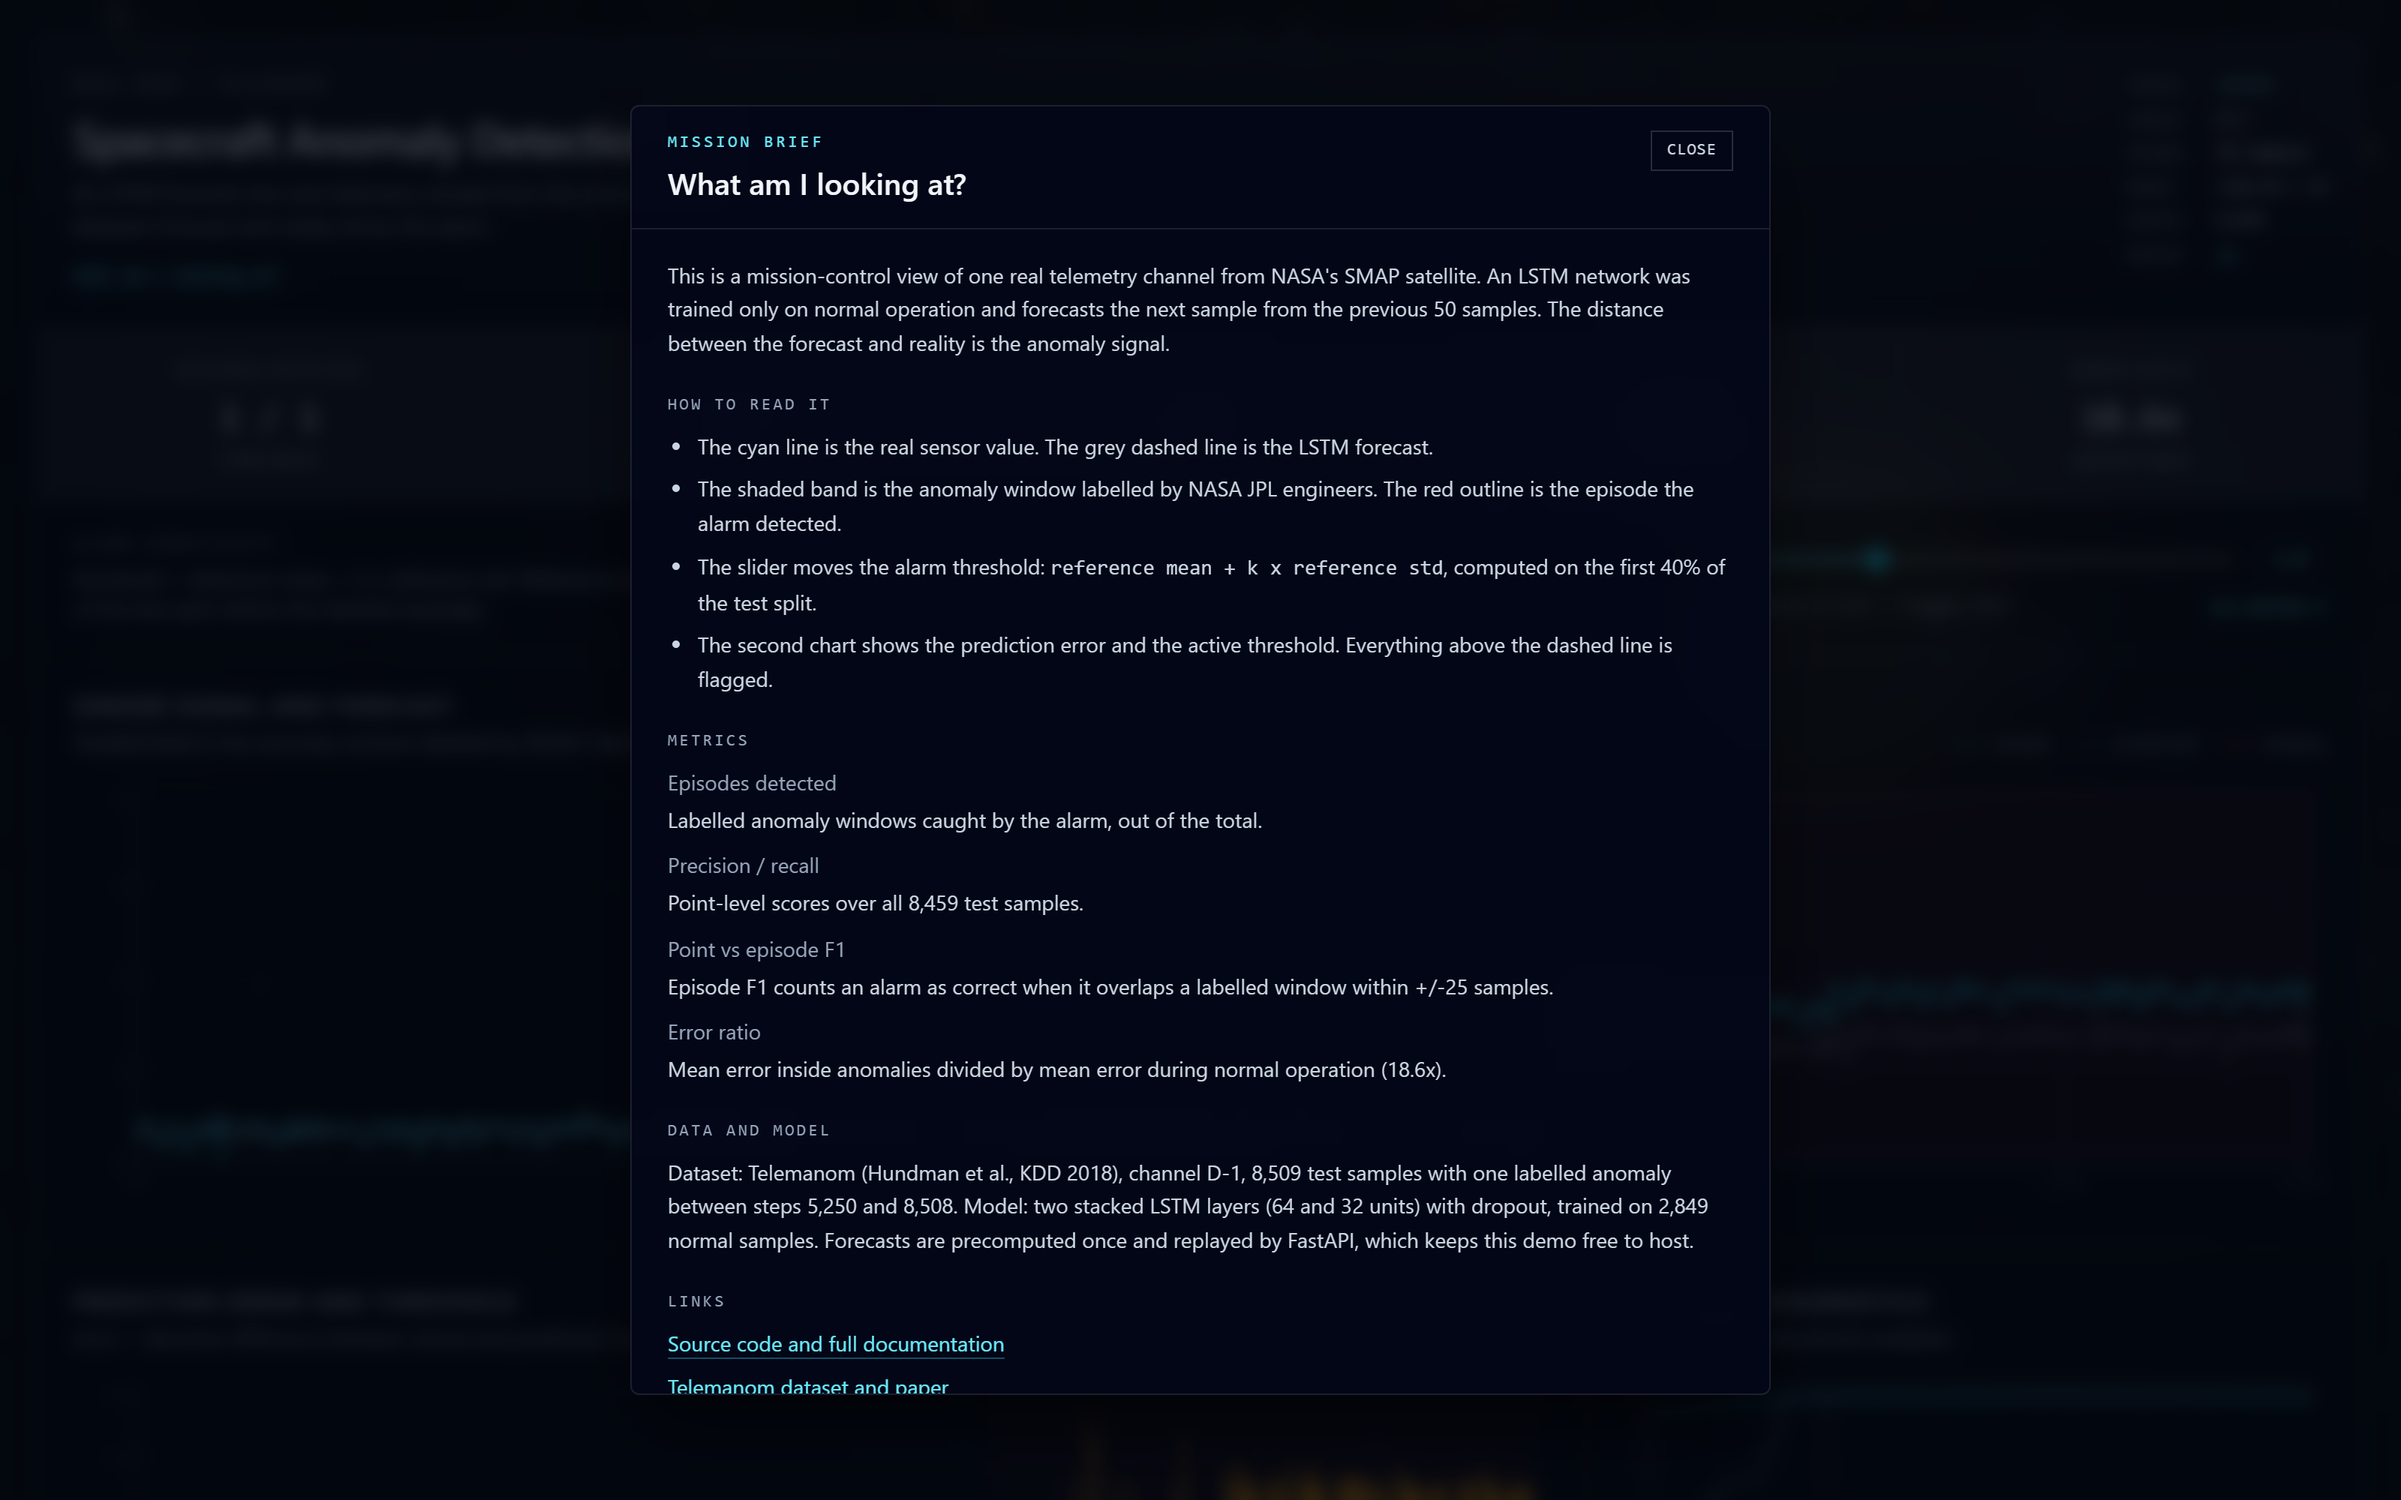
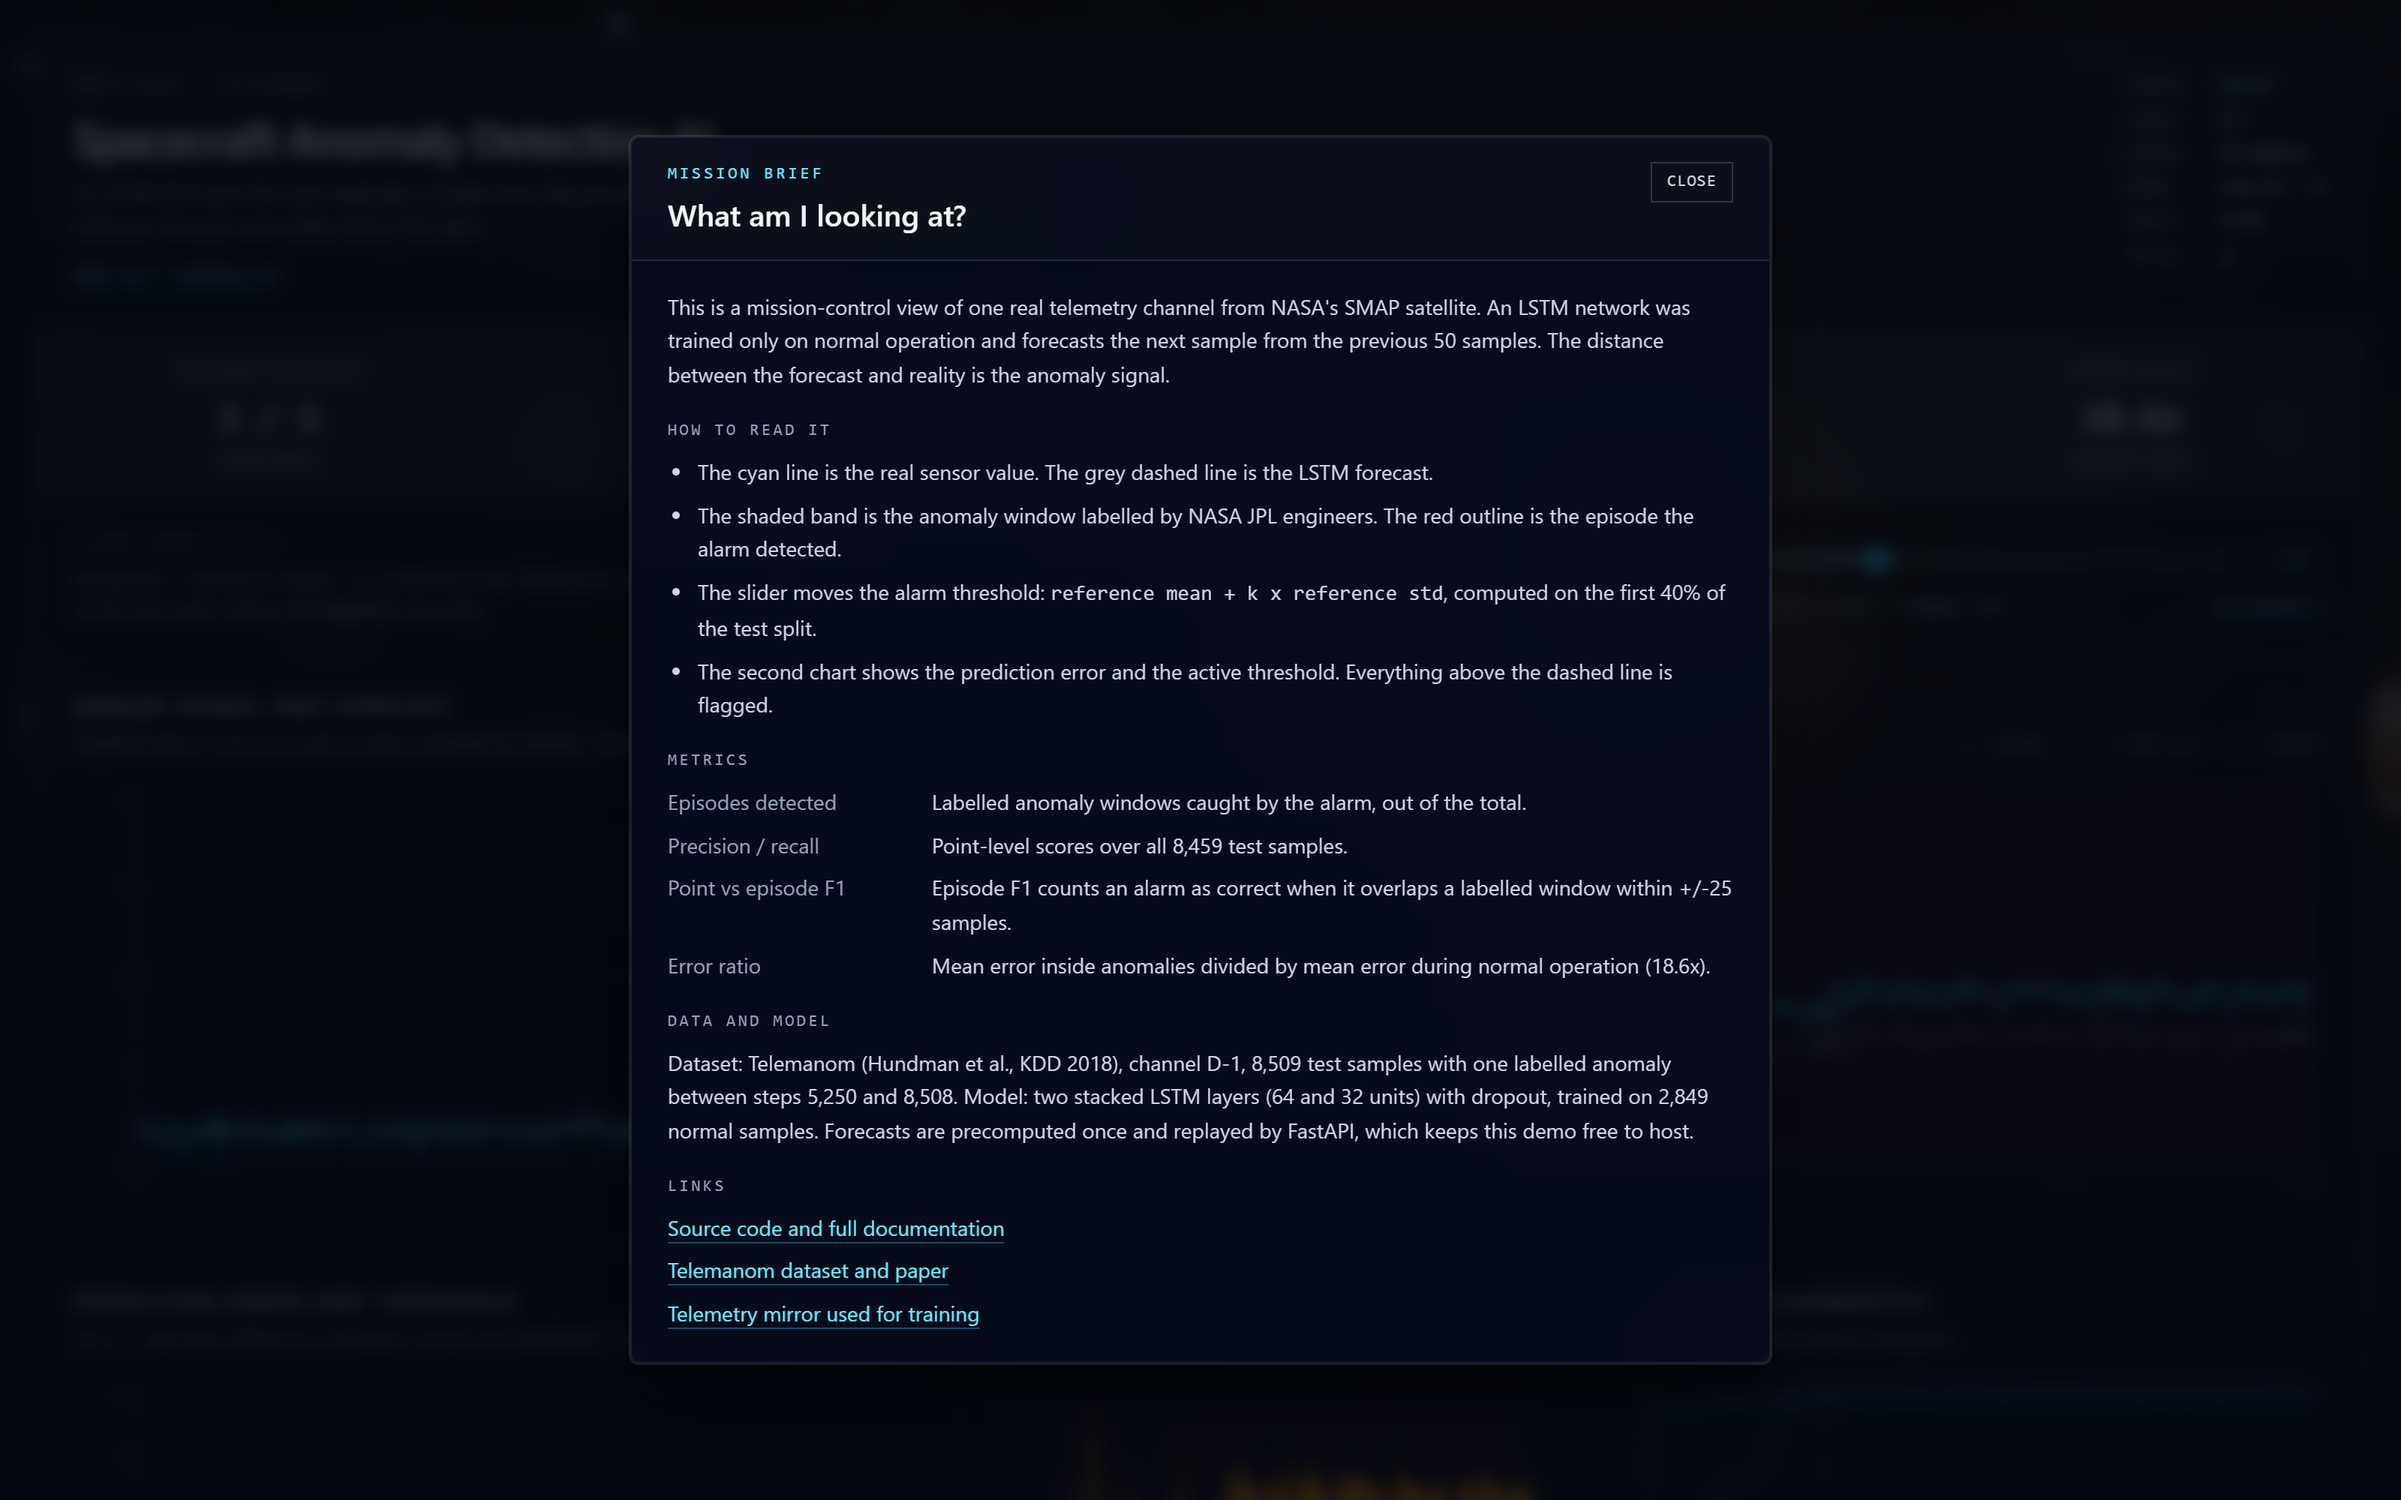
docs: document the observatory and refresh screenshots

Changed region(s): [[0.2812, 0.062, 0.7188, 0.93], [0.6875, 0.062, 0.7188, 0.124], [0.5938, 0.527, 0.625, 0.558]]

diff --git a/docs/DESIGN.md b/docs/DESIGN.md
@@ -46,10 +46,11 @@ decorative element, and it is dimmed, lazy-loaded and switchable.
 
 ## Frosted console
 
-The dashboard fills the viewport and the five metrics are centred. A single `backdrop-blur-md`
+The dashboard fills the viewport and the five metrics are centred. A single `backdrop-blur-lg`
 layer covers the solar-system scene; chart panels and metric cells use a darker translucent
-sub-layer so data never sits directly on a bright planet. This keeps the glass look without the
-common failure mode of low-contrast charts over a busy backdrop.
+sub-layer so data never sits directly on a bright planet. The explainer dialog reuses the same
+treatment with a second translucent layer for its scrolling body. This keeps the glass look
+without the common failure mode of low-contrast charts over a busy backdrop.
 
 ## Guided explainer
 
@@ -57,6 +58,14 @@ A `What am I looking at?` button in the header opens a native `<dialog>` (focus 
 Escape handling come from the platform). It defines the two lines, the anomaly band, the threshold
 formula, point versus episode metrics, the dataset and links to the source. The dialog shares the
 frosted styling and scrolls inside the viewport.
+
+## Observatory
+
+Below the dashboard a full-viewport section removes the glass entirely. Only the solar-system
+backdrop, a short provenance line, the license credit, a motion toggle and a return link remain.
+Neutral scrims at the top and bottom blend the section into the page without covering the planets.
+The backdrop is still the same fixed iframe, so scrolling reveals it instead of loading a second
+scene.
 
 ## Typography and colour
 

diff --git a/README.md b/README.md
@@ -210,10 +210,17 @@ Operational details:
   NASA window shaded and the detected episode outlined.
 - **Error chart**: the residual with the active threshold overlaid.
 - **Diagnostics**: F1 across every sensitivity plus reference statistics and detection settings.
-- **Guided explainer**: a "What am I looking at?" dialog explains the signal, anomaly band,
+- **Guided explainer**: a frosted "What am I looking at?" dialog explains the signal, anomaly band,
   threshold formula and every metric.
+- **Observatory**: a full-screen section below the dashboard where the glass panels end and only the
+  solar-system backdrop, data provenance and motion control remain.
 - **Backdrop**: an optional Sketchfab solar-system scene behind a frosted console, with a motion
   toggle, reduced-motion support, lazy loading and a starfield fallback.
+
+![Observatory section](docs/observatory.png)
+
+*A full-viewport section below the dashboard: only the solar-system backdrop, provenance and
+controls remain.*
 
 Visual decisions are documented in [docs/DESIGN.md](docs/DESIGN.md).
 
@@ -300,6 +307,7 @@ best point F1=0.9405 at sensitivity=6.00
 ├── docs/
 │   ├── dashboard.png
 │   ├── explainer.png
+│   ├── observatory.png
 │   ├── DESIGN.md
 │   └── DEPLOYMENT.md
 ├── .github/workflows/ci.yml     # build, tests and dependency audits
